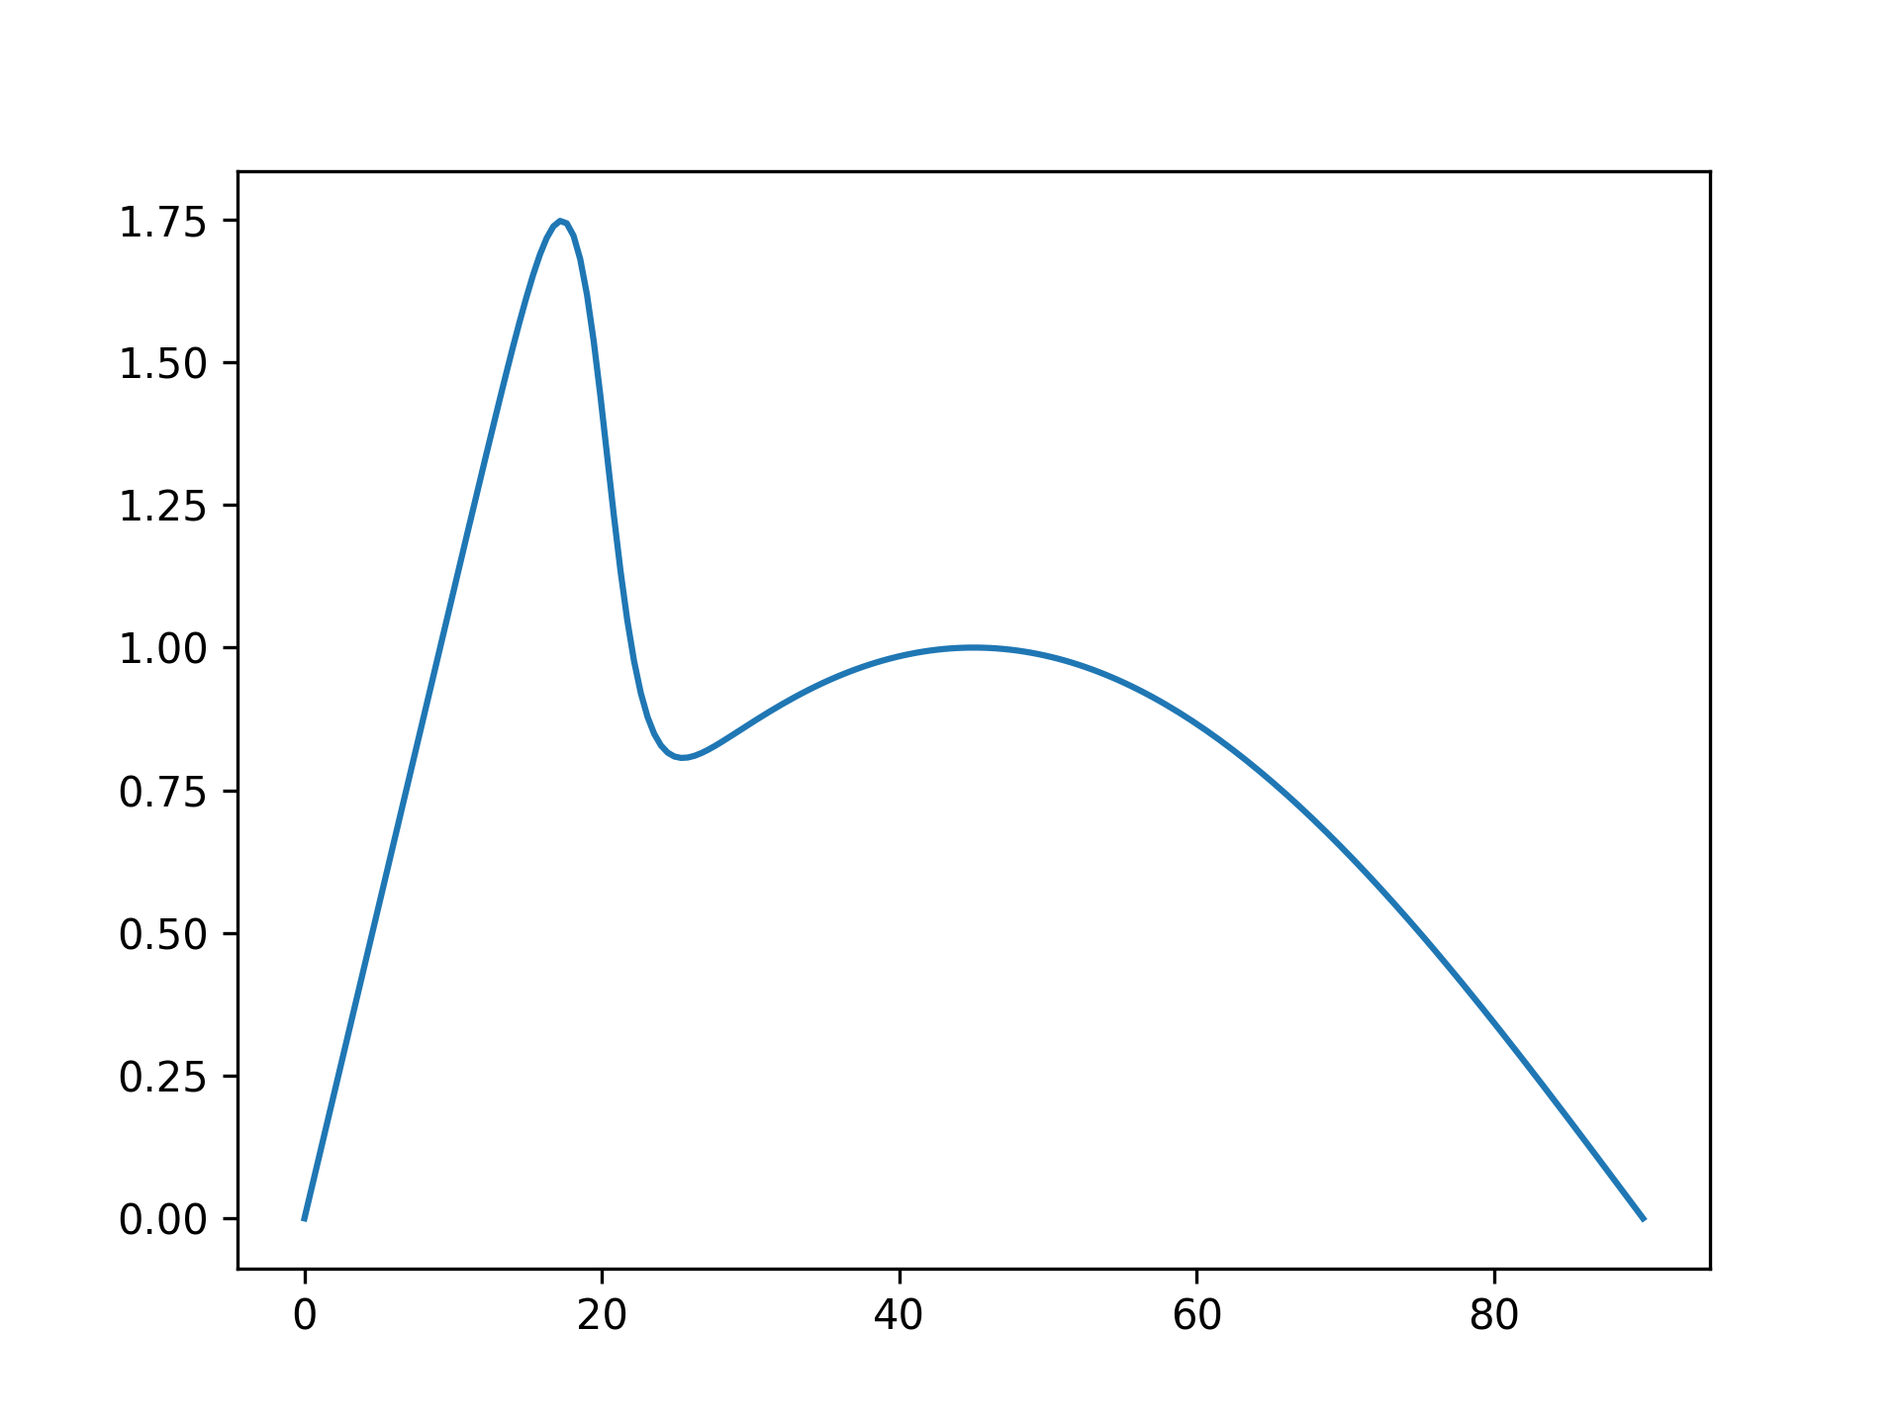
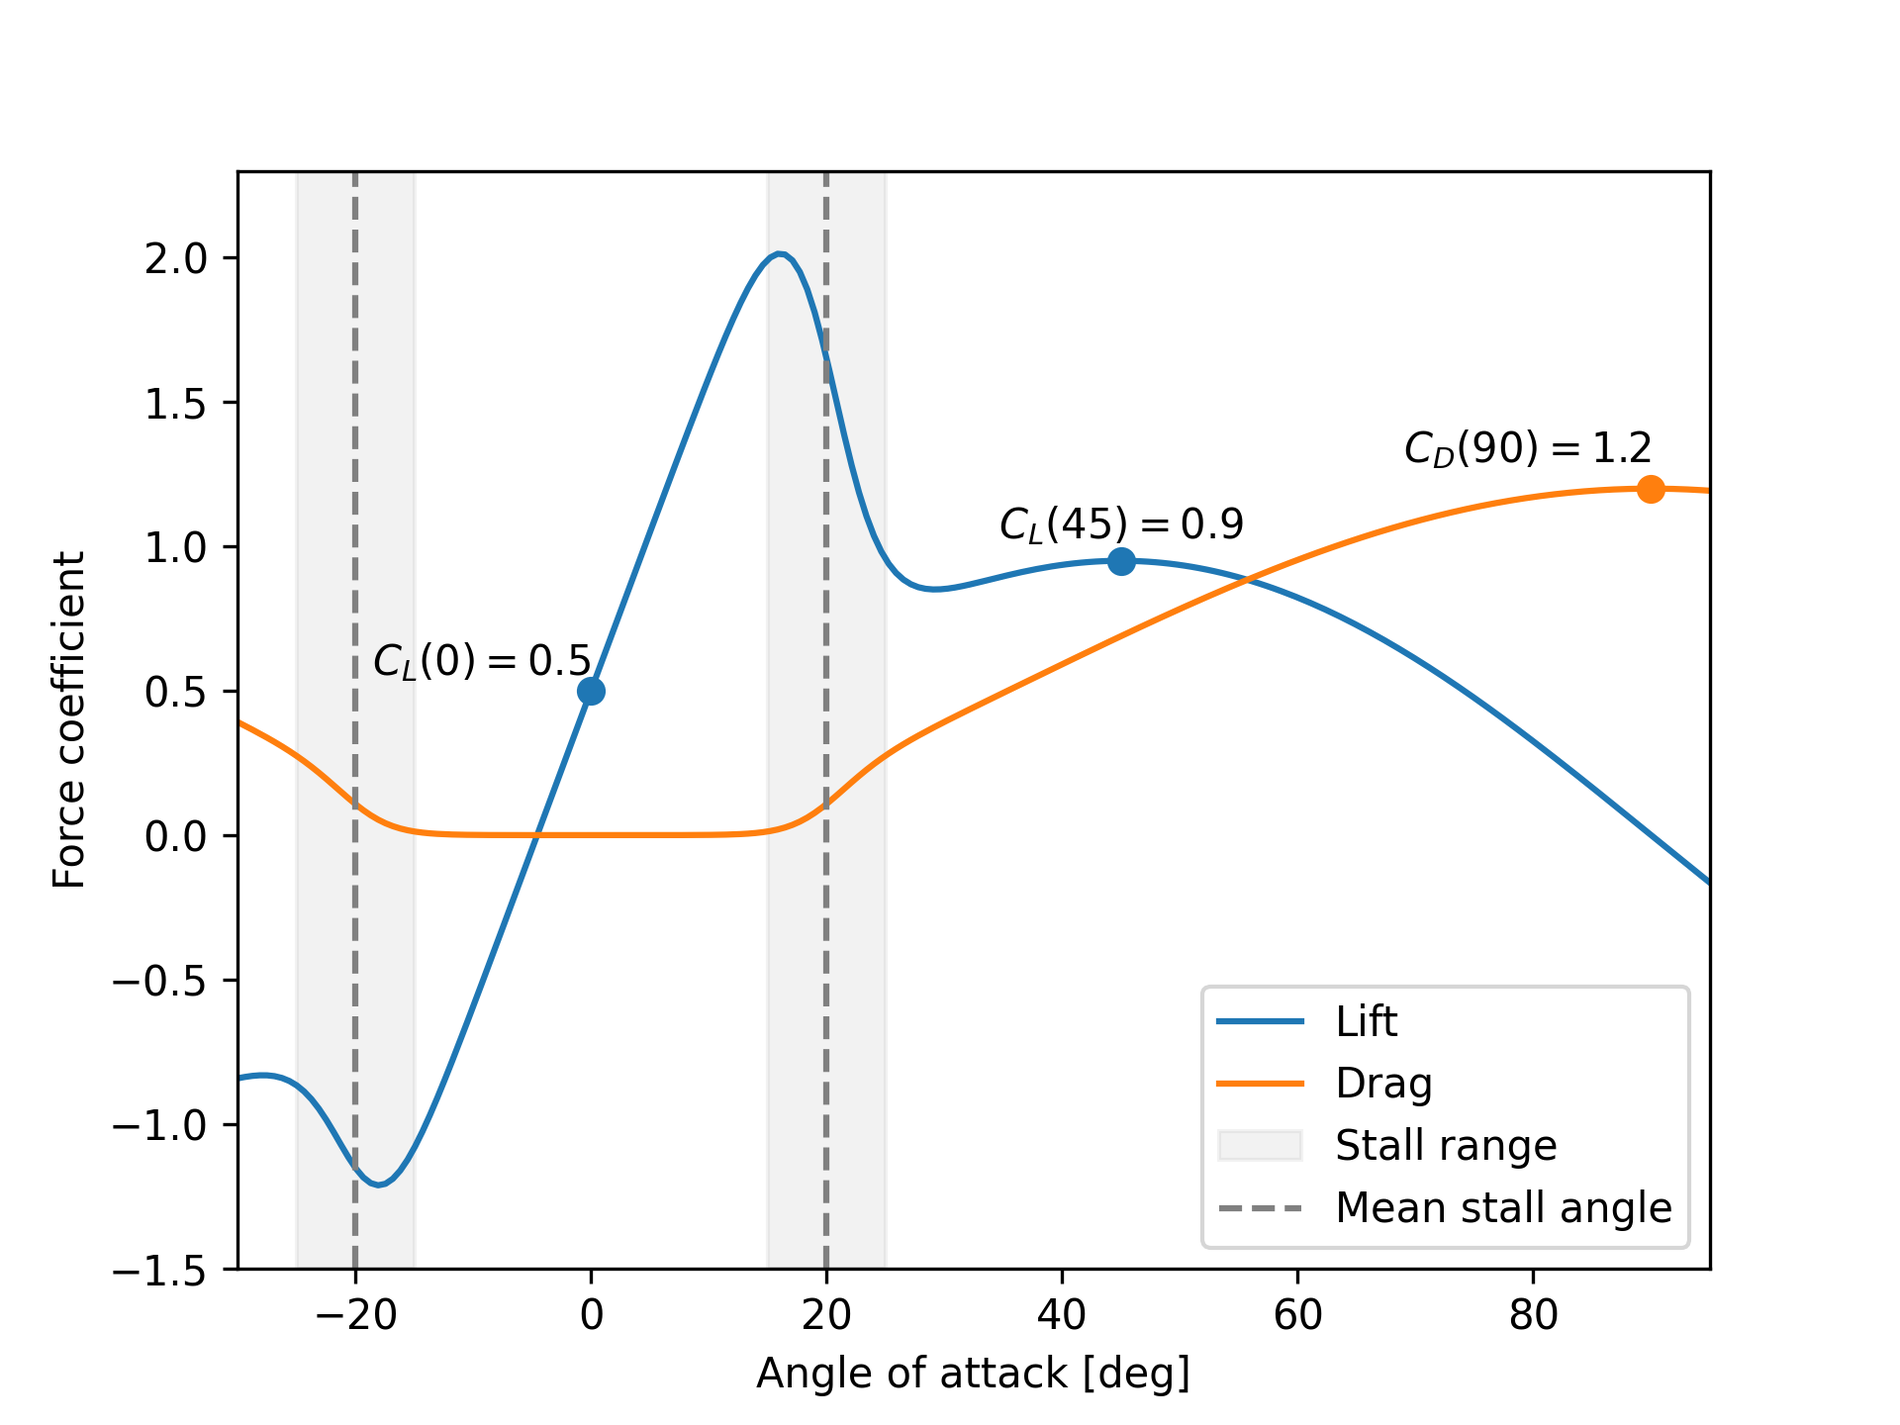
update

diff --git a/book/src/sectional_models/plot_scripts/foil_model_example.py b/book/src/sectional_models/plot_scripts/foil_model_example.py
@@ -5,10 +5,23 @@ import matplotlib.pyplot as plt
 from pystormbird.section_models import Foil
 
 if __name__ == '__main__':
-    foil = Foil()
+    default_colors = plt.rcParams['axes.prop_cycle'].by_key()['color']
+
+    y_min = -1.5
+    y_max = 2.3
+
+    foil = Foil(
+        cl_zero_angle = 0.5,
+        cl_high_order_factor = 0.0,
+        cl_high_order_power = 4.0,
+        cl_max_after_stall = 0.95,
+        cd_max_after_stall = 1.2,
+        mean_stall_angle = np.radians(20),
+        stall_range = np.radians(10),
+    )
 
     n_plot = 200
-    angles_of_attack_deg = np.linspace(0, 90, n_plot)
+    angles_of_attack_deg = np.linspace(-30, 95, n_plot)
     angles_of_attack = np.radians(angles_of_attack_deg)
 
     cl = np.zeros(n_plot)
@@ -16,7 +29,52 @@ if __name__ == '__main__':
 
     for i in range(n_plot):
         cl[i] = foil.lift_coefficient(angles_of_attack[i])
+        cd[i] = foil.drag_coefficient(angles_of_attack[i])
 
-    plt.plot(angles_of_attack_deg, cl)
+    plt.plot(angles_of_attack_deg, cl, color=default_colors[0], label='Lift')
+    plt.plot(angles_of_attack_deg, cd, color=default_colors[1], label='Drag')
+
+    plt.fill_between(
+        np.degrees([foil.mean_stall_angle - foil.stall_range/2, foil.mean_stall_angle + foil.stall_range/2]), 
+        [y_max, y_max], 
+        [y_min, y_min], 
+        color='grey', alpha=0.1, label='Stall range'
+    )
+
+    plt.fill_between(
+        np.degrees([-foil.mean_stall_angle - foil.stall_range/2, -foil.mean_stall_angle + foil.stall_range/2]), 
+        [y_max, y_max], 
+        [y_min, y_min], 
+        color='grey', alpha=0.1
+    )
+    
+    plt.plot(np.degrees([foil.mean_stall_angle]*2), [y_min, y_max], '--', color = 'grey', label='Mean stall angle')
+    plt.plot(np.degrees([-foil.mean_stall_angle]*2), [y_min, y_max], '--', color = 'grey')
+
+    plt.scatter(0.0, foil.cl_zero_angle, color=default_colors[0])
+    plt.text(
+        0.0, foil.cl_zero_angle * 1.05, '$C_L(0) = {:.1f}$'.format(foil.cl_zero_angle),
+        verticalalignment='bottom', horizontalalignment='right'
+    )
+
+    plt.scatter(45, foil.cl_max_after_stall, color=default_colors[0])
+    plt.text(
+        45, foil.cl_max_after_stall * 1.05, '$C_L(45) = {:.1f}$'.format(foil.cl_max_after_stall),
+        verticalalignment='bottom', horizontalalignment='center'
+    )
+
+    plt.scatter(90, foil.cd_max_after_stall, color=default_colors[1])
+    plt.text(
+        90, foil.cd_max_after_stall * 1.05, '$C_D(90) = {:.1f}$'.format(foil.cd_max_after_stall),
+        verticalalignment='bottom', horizontalalignment='right'
+    )
+
+    plt.xlabel('Angle of attack [deg]')
+    plt.ylabel('Force coefficient')
+
+    plt.legend(loc='lower right')
+
+    plt.ylim(y_min, y_max)
+    plt.xlim(np.min(angles_of_attack_deg), np.max(angles_of_attack_deg))
     plt.savefig('../figures/foil_model_example.png', dpi=300)
     plt.show()

diff --git a/pystormbird/src/section_models/foil.rs b/pystormbird/src/section_models/foil.rs
@@ -22,6 +22,7 @@ impl Foil {
         signature = (
             *,
             cl_zero_angle          = 0.0,
+            cl_initial_slope       = FoilRust::default_cl_initial_slope(),
             cl_high_order_factor   = 0.0, 
             cl_high_order_power    = 0.0,
             cl_max_after_stall     = 1.0, 
@@ -35,6 +36,7 @@ impl Foil {
     )]
     pub fn new(
         cl_zero_angle: f64,
+        cl_initial_slope: f64,
         cl_high_order_factor: f64,
         cl_high_order_power: f64,
         cl_max_after_stall: f64,
@@ -48,6 +50,7 @@ impl Foil {
         Self {
             data: FoilRust {
                 cl_zero_angle,
+                cl_initial_slope,
                 cl_high_order_factor,
                 cl_high_order_power,
                 cl_max_after_stall,
@@ -74,5 +77,60 @@ impl Foil {
         SectionModel {
             data: SectionModelRust::Foil(self.data.clone())
         }
+    }
+
+    #[getter]
+    pub fn cl_zero_angle(&self) -> f64 {
+        self.data.cl_zero_angle
+    }
+
+    #[getter]
+    pub fn cl_initial_slope(&self) -> f64 {
+        self.data.cl_initial_slope
+    }
+
+    #[getter]
+    pub fn cl_high_order_factor(&self) -> f64 {
+        self.data.cl_high_order_factor
+    }
+
+    #[getter]
+    pub fn cl_high_order_power(&self) -> f64 {
+        self.data.cl_high_order_power
+    }
+
+    #[getter]
+    pub fn cl_max_after_stall(&self) -> f64 {
+        self.data.cl_max_after_stall
+    }
+
+    #[getter]
+    pub fn cd_zero_angle(&self) -> f64 {
+        self.data.cd_zero_angle
+    }
+
+    #[getter]
+    pub fn cd_second_order_factor(&self) -> f64 {
+        self.data.cd_second_order_factor
+    }
+
+    #[getter]
+    pub fn cd_max_after_stall(&self) -> f64 {
+        self.data.cd_max_after_stall
+    }
+
+    #[getter]
+    pub fn cd_power_after_stall(&self) -> f64 {
+        self.data.cd_power_after_stall
+    }
+
+    #[getter]
+    pub fn mean_stall_angle(&self) -> f64 {
+        self.data.mean_stall_angle
+    }
+
+    #[getter]
+    pub fn stall_range(&self) -> f64 {
+        self.data.stall_range
     }
 }

diff --git a/stormbird/src/section_models/foil.rs b/stormbird/src/section_models/foil.rs
@@ -115,7 +115,7 @@ impl Foil {
         let stall_angle = get_stall_angle(angle_of_attack);
 
         let angle_high_power = if self.cl_high_order_power > 0.0 {
-            angle_of_attack.powf(self.cl_high_order_power)
+            angle_of_attack.abs().powf(self.cl_high_order_power) * angle_of_attack.signum()
         } else {
             0.0
         };

diff --git a/book/src/sectional_models/foil_model.md b/book/src/sectional_models/foil_model.md
@@ -1,26 +1,28 @@
 # Foil model
 
-The single element foil model is a *parametric model* of a foil section. That is, it is defined using a (relatively) few parameters that are later used in a simple mathematical model to compute lift and drag for arbitrary angles of attack.
+The `Foil` structure is a *parametric model* of a single element foil section. That is, it is defined using (relatively) few parameters that are later used in a simple mathematical model to compute lift and drag for arbitrary angles of attack.
 
 ## Why a parametric model?
 Other implementations of lifting line and actuator line methods often use data based models for computing the lift and drag coefficients. That is, the user must supply data on how the lift and drag varies as a function of the angle attack, and then the solver can use this data together with interpolation or table look-up to compute force coefficients for arbitrary angles. 
 
-A data based approach is often fine, and does have some benefits. For instance, it is the only way to make a truly general model where the user have full control over the behavior of the sectional model. For this reason, there might be implementations of pure data based models in Stormbird in the future. However, the choice of using a parametric model for now where based on two core reason. 
+A data based approach is often fine, and does have some benefits. For instance, it is the only way to make a truly general model where the user have full control over the behavior of the sectional model. For this reason, there might be implementations of pure data based models in Stormbird in the future. However, the choice of using a parametric model for now where based on two reasons. 
 
 First, it becomes easier to use a parametric model as a building block for more complex foil models, where the behavior depends on some internal state, such as flap angle or suction rate. This is because the model parameters can be allowed to depend on the internal state through interpolation. See the [varying foil sub chapter](./varying_foil_model.md) for more on this.
 
-Second, a parametric model ensures smoothness, which is beneficial when using the model together with gradient based optimization algorithms. For instance, such a method might be used to optimize the angle of attack for wing sails at a given wind direction. The smoothness is in particular practical when the expected optimal point is close to the stall angle.
+Second, a parametric model ensures smoothness, which is beneficial when using the model together with gradient based optimization algorithms. For instance, such a method might be used to optimize the angle of attack for wing sails at a given wind direction. The smoothness is in particular practical when the expected optimal point is close to the stall angle - which ot often is.
 
-The downside of a parametric model is believed to be small, as long as the model can represent typical foil section behavior without too many simplifications.
+The downside of a parametric model is believed to be small, as long as the model can represent typical foil section behavior without too many simplifications. The design of the `Foil` model is intended to achieve this as best as possible[^update_to_model_note].
+
+[^update_to_model_note]: The design of the `Foil` model is open for changes, and may be updated when a need is discovered. The goal is to find the right balance between simplicity and flexibility.
 
 ## Model overview
-The model is divided in two core sub-models, labeled *pre-stall* and *post-stall*.
+The model is divided in two core sub-models, labeled *pre-stall* and *post-stall*, respectively representing the behavior before and after the foil has stalled due to too high angle of attack.
 
-For angles of attack below stall, it is assumed that both lift and drag can be represented accurately as simple polynomials. The lift is mostly linear, but can also have an optional high-order term where both the factor and power of the term is adjustable. The drag is assumed to be represented as a second order polynomial.
+For angles of attack below stall, it is assumed that both lift and drag can be represented accurately with simple polynomials. The lift is linear by default, but can also have an optional high-order term where both the factor and power of the term is adjustable. The high order term is meant to capture slowly developing separations, which might occur at low Reynolds numbers. The drag is assumed to be represented as a second order polynomial. For a wing sail operating below stall, the drag will mostly be dominated by lift-induced drag forces. The viscous drag can therefore be kept simple, as the importance to the total force is relatively low.
 
-For angles of attack above stall, both the lift and drag are assumed to be harmonic functions which primarily is adjusted by setting the *max value* after stall. This is a rough model, which is assumed to be appropriate as the pre-stall behavior is usually more important for a wind power device.
+For angles of attack above stall, both the lift and drag are assumed to be harmonic functions which primarily is adjusted by setting the *max value* after stall. This is a rough model which might not be perfect for all angles of attack, but is assumed to be close enough. Wing sails will most often operate below stall.
 
-The transit between the two models is done using a sigmoid function, where both the transition point and the width of the transition can be adjusted.
+The transit between the two models is done using a [sigmoid function](https://en.wikipedia.org/wiki/Sigmoid_function), where both the transition point and the width of the transition can be adjusted.
 
 In addition, there factors in the model to account for added mass and lift due to the time derivative of the angle of attack. Both these effects are assumed to be linear for simplicity.
 
@@ -64,6 +66,18 @@ An explanation of the parameters are given below:
 
 ## Example
 
-An example of the output of a foil model is shown below, along with definition of the parameters used.
+An example of the output of a foil model is shown below. The parameters values are given as follows:
+
+```rust
+let foil = Foil {
+    cl_zero_angle = 0.5,
+    cl_max_after_stall = 0.9,
+    cd_max_after_stall = 1.2,
+    mean_stall_angle = 20.0_f64.to_radians(),
+    stall_range = 10.0_f64.to_radians(),
+    ..Default::default()
+}
+
+```
 
 ![Foil model example](figures/foil_model_example.png)

diff --git a/book/src/sectional_models/varying_foil_model.md b/book/src/sectional_models/varying_foil_model.md
@@ -1,19 +1,28 @@
 # Varying foil model
 
-Structure capable of combining multiple foil models. The actual lift and drag can then depend on an internal parameter that is used to interpolate the foil models.
+The `VaryingFoil` structure is a model of a foil where the output can be allowed to depend on some internal state. The typical example is a flap angle, for a two-element foil, or suction rate, for a suction sail. To achieve this, the varying foil model uses multiple `Foil` models, each belonging to a specific internal value. Linear interpolation is used for all `Foil` model parameters for each state between the input data. This interpolation is handled by the `VaryingFoil` structure whenever a new internal state is set.
 
-## Available fields
+## How to setup a VaryingFoil structure
+
+As a general case, you need to tune several `Foil` models for multiple values of whatever you want to use as an internal state of the wing. If this is a flap angle, you would need data for the lift and drag coefficients as a function of angles of attack for multiple discrete flap angles. When a unique model is generated for each value of the flap angle, this can be given as input to the `VaryingFoil` structure, along with the flap angle data as `internal_state_data`. An example will come...
+
+## What if I want to model a three-element foil?
+More complex models with more internal variable might be added in the future. This will be done when the use case represent itself, and likely not before. However, it is still possible to use the `VaryingFoil` structure to model sails with more control parameters in a slightly simplified way.
+
+For instance, lets assume you want to model a three-element foil, where there is both a flap and a leading edge slot. Currently it is not possible to model changing values of the slot- and flap-angle independently directly in Stormbird. However, if you assume some relationship between the flap angle and the slot angle, the `VariableFoil` structure can still be used. 
+
+This might not be such a large simplification for practical use cases[^more_investigation_note]. The point of a multi-element foil is both to create larger maximum lift forces and to reduce the drag force for a given lift force. In a lifting line model - and also mostly for wings in general - the lift-induced velocities are not very affected by *how* the lift is created. Rather, it is just the value of the lift-coefficient that matters. For a given *wanted lift coefficient* it seems reasonable that there is always a single optimum combination of flap- and slot-angle, which *probably* can be computed independently of three-dimensional effects. As such, reducing the model to a single internal variable *might* not be a big problem. 
+
+[^more_investigation_note]: This is currently a hypothesis which we hope to be able to explore more in the future...
+
+## Available parameters
+
+The available parameters in the structure is shown below. 
+
 ```rust
-/// A foil profile where the parameters can vary depending on an internal state. 
-/// 
-/// The two typical use cases are to model foil sections that include a flap angle, or suction 
-/// sails, where the foil section properties are dependent on the suction rate.
 pub struct VaryingFoil {
-    /// Typically flap angle or suction rate
     pub internal_state_data: Vec<f64>,
-    /// The foil model that correspond to the internal state values
     pub foils_data: Vec<Foil>,
-    /// The current internal state used when getting lift and drag. Defaults to zero
     pub current_internal_state: f64,
 }
 ```

diff --git a/book/src/tutorials/rotor_sail.md b/book/src/tutorials/rotor_sail.md
@@ -1,5 +1,7 @@
 # Rotor sail
 
+**WARNING**: This text is very much under construction. 
+
 ## Challenges
 Rotor sails are special in several ways - relative to other lifting surfaces - which pose challenges from a simplified modelling perspective. 
 
@@ -19,16 +21,22 @@ It is true that a lifting line model **alone** is **less physical accurate for r
 A lifting line simulation of a rotor sail is a potential candidate for capturing the physics in more advanced situations. In many ways, the method can be a practical way to use and correct the high-fidelity data in **situations not directly tested in CFD or experiments**. This can be exemplified in three ways:
 
 ### Point 1 - sail-to-sail interaction effects
-As will be highlighted further under best practices, a lifting line simulation of a rotor sail is created by tuning some model parameters to high fidelity data of a single sail. When tuning the model, two things happen.
+To come
 
 ### Point 2 - spatially varying velocity fields
+To come
 
 ### Point 3 - motions
+To come
 
 ### When not to use lifting line simulations for rotor sails
+To come
 
 ## Best practices
+To come
 
 ## Model setup
+To come
 
 ## Empirical data sources
+To come

diff --git a/book/src/sectional_models/rotating_cylinder.md b/book/src/sectional_models/rotating_cylinder.md
@@ -1,7 +1,7 @@
 # Rotating cylinder
 Model representing a rotating cylinder. The lift, drag and moment can be calculated based on how fast the cylinder is spinning. 
 
-## Available fields
+## Available parameters
 ```rust
 pub struct RotatingCylinder {
     /// The rotational speed of the rotor, in revolutions per second.
@@ -13,7 +13,7 @@ pub struct RotatingCylinder {
     /// Drag coefficient data as a function of spin ratio
     pub cd_data: Vec<f64>,
     /// The angle of the wake behind the cylinder, as a function of spin ratio.
-    pub wake_angle_data: Vec<f64>,
+    pub wake_angle_data: Option<Vec<f64>>,
     /// Added mass factor for the cylinder
     pub added_mass_factor: f64,
     /// Two-dimensional moment of inertia
